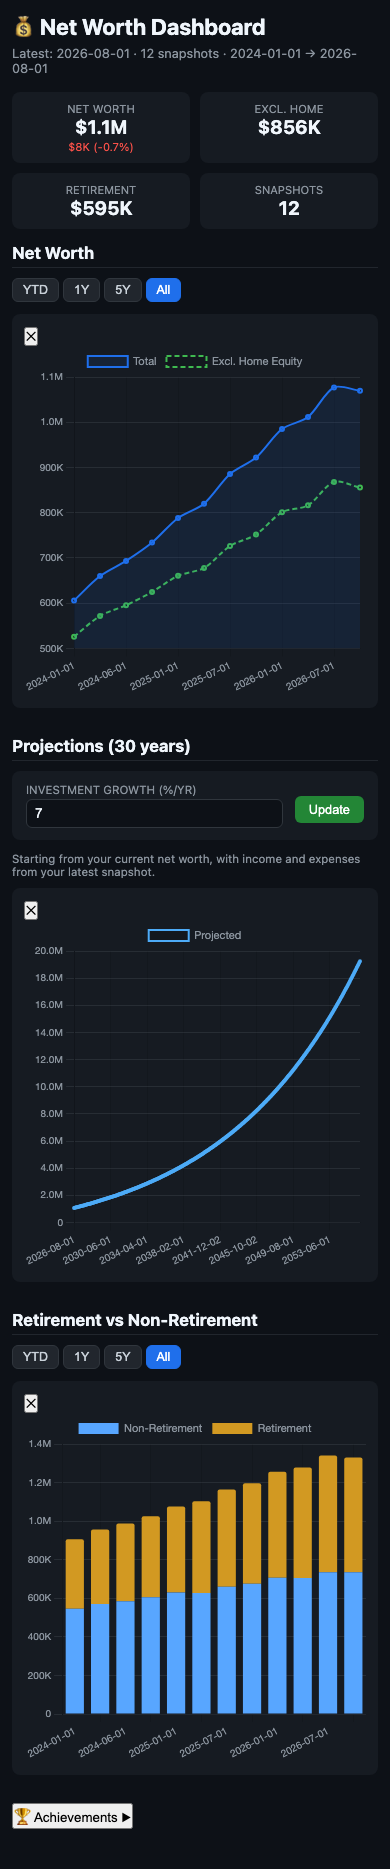
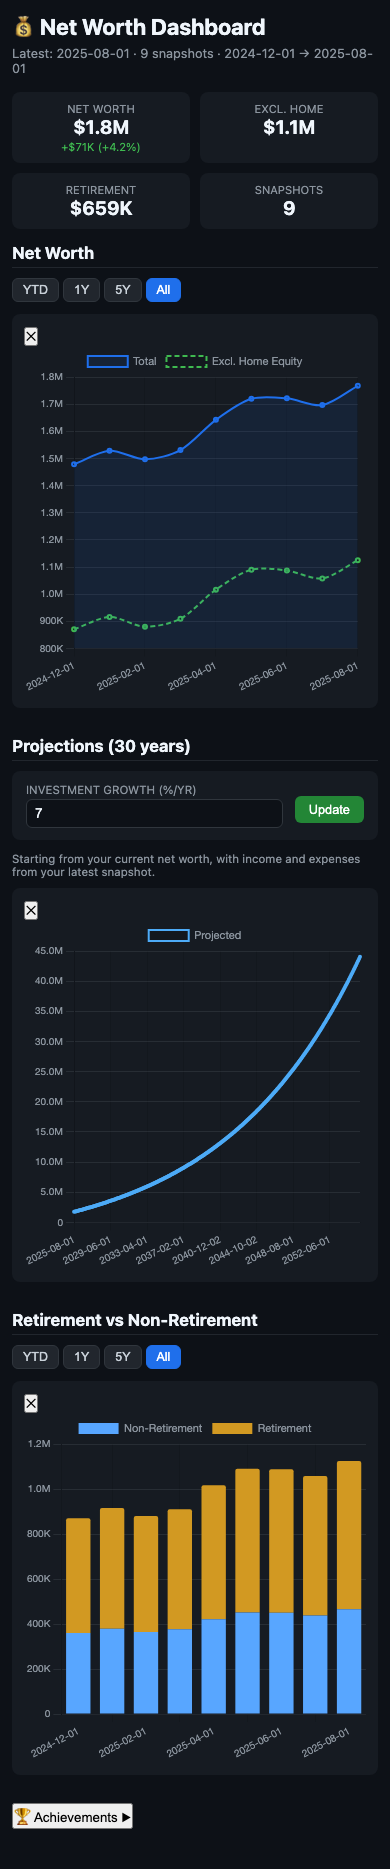
feat: real data — 9 months of investment account history (Dec 2024–Aug 2025), mortgage modeled backward, new flat account model, income/expenses for projections

diff --git a/docs/index.html b/docs/index.html
@@ -162,7 +162,7 @@
 </div>
 
 <script>
[2 lines of base64/hex data omitted]
 
 function sha256(str) {
   const encoder = new TextEncoder();

diff --git a/generate.py b/generate.py
@@ -1,12 +1,11 @@
 #!/usr/bin/env python3
 """
 Net Worth Dashboard Generator
-Reads config.json + data/snapshots.json -> writes a single static HTML file
+Reads data/snapshots.json -> writes a single static HTML file
 with Chart.js charts, password gate, and timeframe toggles.
-Mobile-responsive, self-contained (Chart.js via CDN).
 
 Usage:
-  python3 generate.py                      # build with current config/data
+  python3 generate.py                      # build with current data
   python3 generate.py --set-password PWD   # update password hash in config
 """
 
@@ -17,9 +16,9 @@ import os
 import sys
 
 PROJECT_DIR = os.path.dirname(os.path.abspath(__file__))
-CONFIG_PATH = os.path.join(PROJECT_DIR, "config.json")
-SNAPSHOTS_PATH = os.path.join(PROJECT_DIR, "data", "snapshots.json")
 TEMPLATE_PATH = os.path.join(PROJECT_DIR, "templates", "index.html")
+SNAPSHOTS_PATH = os.path.join(PROJECT_DIR, "data", "snapshots.json")
+PASSWORD_PATH = os.path.join(PROJECT_DIR, "data", "password.json")
 OUTPUT_DIR = os.path.join(PROJECT_DIR, "docs")
 OUTPUT_PATH = os.path.join(OUTPUT_DIR, "index.html")
 
@@ -35,37 +34,32 @@ def write_json(path, data):
         f.write("\n")
 
 
-def derive_net_worth_series(snapshots, config):
+def derive_series(snapshots):
     """Compute net worth total, ex-housing, retirement, non-retirement per snapshot."""
-    accounts_def = config["accounts"]
     dates = []
     net_worth_total = []
     net_worth_ex_housing = []
     retirement = []
     non_retirement = []
 
+    # Retirement account keys (contain "retirement" or "401k" or "ira")
+    retirement_keys = [k for k in snapshots[0]["accounts"].keys()
+                       if "retirement" in k or "401k" in k or "ira" in k]
+
     for snap in snapshots:
         dates.append(snap["date"])
-        nw = 0.0
-        home_equity = 0.0
-        mortgage = 0.0
-        ret = 0.0
-        non_ret = 0.0
-        for key, val in snap["accounts"].items():
-            acct = accounts_def[key]
-            nw += val
-            if key == "home_equity":
-                home_equity = val
-            if acct["bucket"] == "retirement":
-                ret += val
-            else:
-                non_ret += val
-        for key, val in snap.get("liabilities", {}).items():
-            if key == "mortgage_balance":
-                mortgage = val
-            nw -= val
+        liquid = sum(snap["accounts"].values())
+        ret = sum(snap["accounts"].get(k, 0) for k in retirement_keys)
+        non_ret = liquid - ret
+
+        nw = liquid
+        if "home_equity" in snap:
+            nw += snap["home_equity"]
+
+        ex_housing = liquid
+
         net_worth_total.append(nw)
-        net_worth_ex_housing.append(nw - home_equity + mortgage)
+        net_worth_ex_housing.append(ex_housing)
         retirement.append(ret)
         non_retirement.append(non_ret)
 
@@ -86,13 +80,9 @@ def hash_password(password, salt=None):
 
 
 def cmd_set_password(password):
-    """Set the password in config.json."""
-    config = load_json(CONFIG_PATH)
     h, s = hash_password(password)
-    config["password"]["hash"] = h
-    config["password"]["salt"] = s
-    write_json(CONFIG_PATH, config)
-    print(f"✅ Password set. Salt: {s[:8]}..., Hash: {h[:16]}...")
+    write_json(PASSWORD_PATH, {"hash": h, "salt": s})
+    print(f"Password set. Salt: {s[:8]}..., Hash: {h[:16]}...")
 
 
 def main():
@@ -104,36 +94,36 @@ def main():
             print("Usage: python3 generate.py --set-password YOUR_PASSWORD")
         return
 
-    config = load_json(CONFIG_PATH)
     data = load_json(SNAPSHOTS_PATH)
     snapshots = data["snapshots"]
-
-    series = derive_net_worth_series(snapshots, config)
+    series = derive_series(snapshots)
 
     # Password setup
-    pw_cfg = config.get("password", {})
-    stored_hash = pw_cfg.get("hash", "PLACEHOLDER_HASH")
-    stored_salt = pw_cfg.get("salt", "PLACEHOLDER_SALT")
+    pw_data = {"hash": "PLACEHOLDER_HASH", "salt": "PLACEHOLDER_SALT"}
+    if os.path.exists(PASSWORD_PATH):
+        pw_data = load_json(PASSWORD_PATH)
+    
+    stored_hash = pw_data.get("hash", "PLACEHOLDER_HASH")
+    stored_salt = pw_data.get("salt", "PLACEHOLDER_SALT")
 
     if stored_hash == "PLACEHOLDER_HASH":
         demo_pw = "demo123"
         stored_hash, stored_salt = hash_password(demo_pw)
         print(f"Using demo password: '{demo_pw}' — set yours with: python3 generate.py --set-password YOUR_PASSWORD")
 
+    # Build current snapshot summary
+    last = snapshots[-1]
     chart_data = {
         "series": series,
         "current": {
-            "mortgage_balance": snapshots[-1].get("liabilities", {}).get("mortgage_balance", None),
-            "home_equity": snapshots[-1]["accounts"].get("home_equity", 0),
-            "income": snapshots[-1].get("income", None),
-            "expenses": snapshots[-1].get("expenses", None),
+            "home_equity": last.get("home_equity", 0),
+            "mortgage_balance": last.get("mortgage_balance"),
+            "income": last.get("income"),
+            "expenses": last.get("expenses"),
         },
-        "password": {
-            "hash": stored_hash,
-            "salt": stored_salt,
-        },
+        "password": {"hash": stored_hash, "salt": stored_salt},
         "password_enabled": False,
-        "tooltip_mode": "dismiss-button",  # "workaround" or "dismiss-button"
+        "tooltip_mode": "dismiss-button",
     }
 
     with open(TEMPLATE_PATH) as f:
